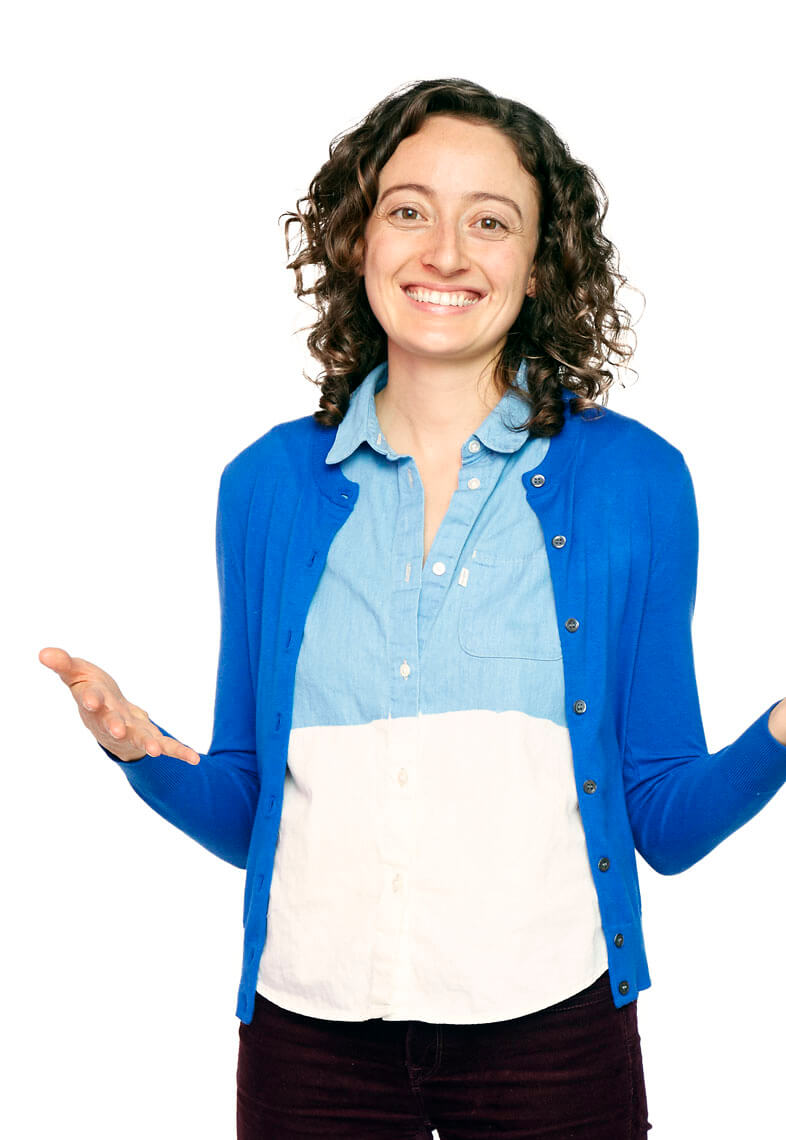
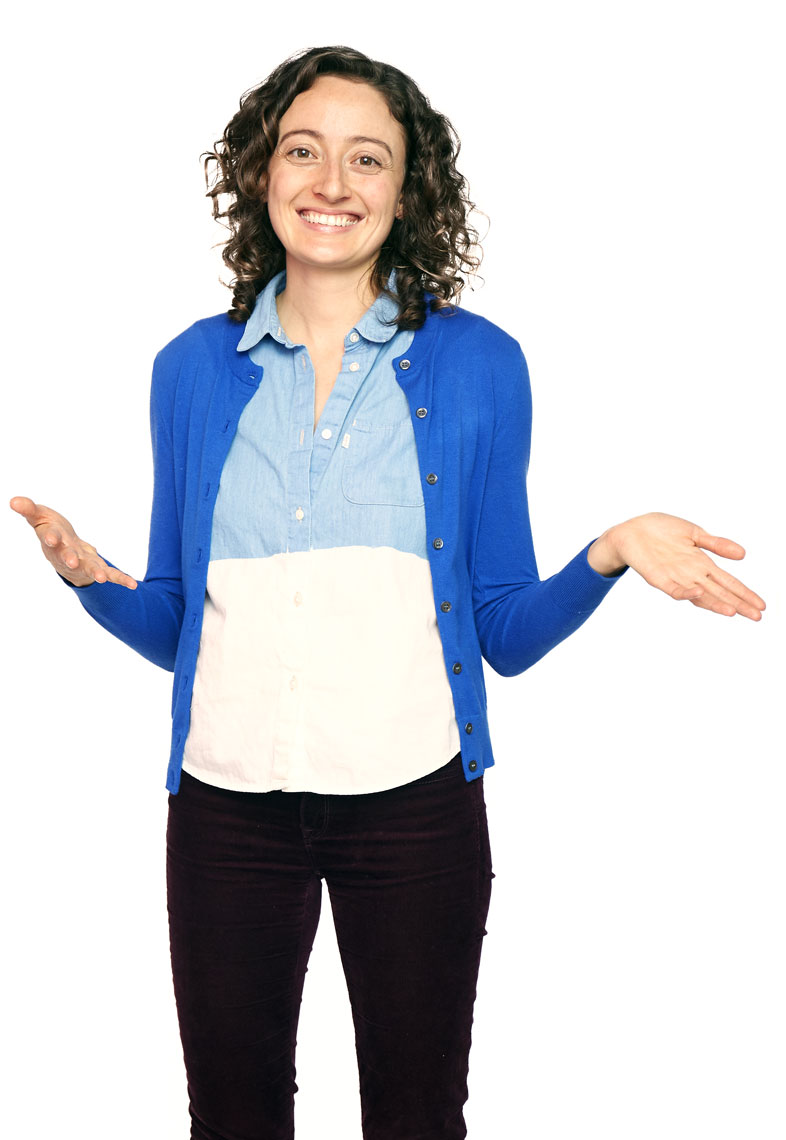
bio modal adjust

diff --git a/src/data/teamInfo.js b/src/data/teamInfo.js
@@ -1,5 +1,6 @@
 export const teamInfo = [
   {
+    id: 'david',
     name: 'David Westen',
     position: 'Principal & Founder',
     photo: require('assets/img/about/team/david.jpg'),
@@ -11,6 +12,7 @@ export const teamInfo = [
     ]
   },
   {
+    id: 'steffan',
     name: 'Steffan Schlarb',
     position: 'Creative Director',
     photo: require('assets/img/about/team/steffan.jpg'),
@@ -23,6 +25,7 @@ export const teamInfo = [
     ]
   },
   {
+    id: 'stewart',
     name: 'Stewart Maclennan',
     position: 'Director of Digital Media',
     photo: require('assets/img/about/team/stewart.jpg'),
@@ -34,6 +37,7 @@ export const teamInfo = [
     ]
   },
   {
+    id: 'scott',
     name: 'Scott Lambridis',
     position: 'Lead UX Director',
     photo: require('assets/img/about/team/scott.jpg'),
@@ -51,6 +55,7 @@ export const teamInfo = [
   //   component: <RickBio />
   // },
   {
+    id: 'lucy',
     name: 'Lucy Dotson',
     position: 'Senior UX Designer',
     photo: require('assets/img/about/team/lucy.jpg'),
@@ -62,6 +67,7 @@ export const teamInfo = [
     ]
   },
   {
+    id: 'kyle',
     name: 'Kyle Lloyd',
     position: 'Director of Business Development',
     photo: require('assets/img/about/team/kyle.jpg'),
@@ -73,6 +79,7 @@ export const teamInfo = [
     ]
   },
   {
+    id: 'shannon',
     name: 'Shannon Chin',
     position: 'Senior Interactive Producer',
     photo: require('assets/img/about/team/shannon.jpg'),
@@ -120,6 +127,7 @@ export const teamInfo = [
     ]
   },
   {
+    id: 'nick',
     name: 'Nick Capello',
     position: 'Studio Manager',
     photo: require('assets/img/about/team/nick.jpg'),
@@ -143,6 +151,7 @@ export const teamInfo = [
     ]
   },
   {
+    id: 'emma',
     name: 'Emma Hazlett',
     position: 'Visual Designer',
     photo: require('assets/img/about/team/emma.jpg'),
@@ -154,6 +163,7 @@ export const teamInfo = [
     ]
   },
   {
+    id: 'jo',
     name: 'Johanna Silver',
     position: 'UX Designer',
     photo: require('assets/img/about/team/jo.jpg'),
@@ -165,6 +175,7 @@ export const teamInfo = [
     ]
   },
   {
+    id: 'sandra',
     name: 'Sandra Wing',
     position: 'UX Researcher',
     photo: require('assets/img/about/team/sandra.jpg'),
@@ -181,6 +192,7 @@ export const teamInfo = [
   //   photo: SuzanneImage,
   // },
   {
+    id: 'lily',
     name: 'Lily Hu',
     position: 'Visual Designer',
     photo: require('assets/img/about/team/lily.jpg'),
@@ -192,6 +204,7 @@ export const teamInfo = [
     ]
   },
   {
+    id: 'trevor',
     name: 'Trevor Alexander',
     position: 'Software Engineer',
     photo: require('assets/img/about/team/trevor.jpg'),
@@ -202,6 +215,7 @@ export const teamInfo = [
     ]
   },
   {
+    id: 'diana',
     name: 'Diana Chin',
     position: 'Director of User Research',
     photo: require('assets/img/about/team/diana.jpg'),
@@ -213,6 +227,7 @@ export const teamInfo = [
     ]
   },
   {
+    id: 'mattk',
     name: 'Matt Kissick',
     position: 'Visual Designer',
     photo: require('assets/img/about/team/mattk.jpg'),
@@ -224,6 +239,7 @@ export const teamInfo = [
     ]
   },
   {
+    id: 'mattr',
     name: 'Matt Rancatore',
     position: 'Visual Designer',
     photo: require('assets/img/about/team/mattr.jpg'),
@@ -234,6 +250,7 @@ export const teamInfo = [
     ]
   },
   {
+    id: 'peter',
     name: 'Peter Odum',
     position: 'Lead User Experience Designer',
     photo: require('assets/img/about/team/peter.jpg'),
@@ -245,6 +262,7 @@ export const teamInfo = [
     ]
   },
   {
+    id: 'tiffany',
     name: 'Tiffany La',
     position: 'User Research',
     photo: require('assets/img/about/team/tiffany.jpg'),

diff --git a/src/routes/About/style.scss b/src/routes/About/style.scss
@@ -54,7 +54,6 @@
 }
 
 // Team
-
 .about {
   .modal__close {
     @extend %page-margins;
@@ -76,7 +75,7 @@
   bottom: 0;
   position: absolute;
   width: 100%;
-  // transform: translateY(-50%);
+  // media queries
   @include breakpoint($mobile-lg) {
     width: 100%;
     overflow-y: scroll;
@@ -181,11 +180,6 @@
   }
 }
 
-// .team-info h2,
-// .team-info h5 {
-//   line-height: 1.2;
-// }
-
 .bio--wrap {
   position: absolute;
   bottom: 0;
@@ -203,19 +197,14 @@
 
   img {
     position: absolute;
-    bottom: 0;
-    right: 6.8rem;
     height: 100%;
-    min-height: 108rem;
     width: auto;
-    padding-top: 10rem;
-    // media queries
     @media only screen and (max-height: 1080px) {
       bottom: auto;
       top: 0;
     }
     @include breakpoint($desktop-sm) {
-      right: -15rem;
+      right: -10rem;
     }
   }
 }

diff --git a/src/components/Archive/ArchiveGrid.jsx b/src/components/Archive/ArchiveGrid.jsx
@@ -19,7 +19,7 @@ const ArchiveGrid = props => {
         imageSrc={ item.thumb }
       >
         <h2 className="typ--bold">{ item.id }</h2>
-        <div className="right-arrow"><img src={ reguire('assets/img/arrow-right-short.png') } /></div>
+        <div className="right-arrow"><img src={ require('assets/img/arrow-right-short.png') } /></div>
       </PinkHover>
     ))
   );
